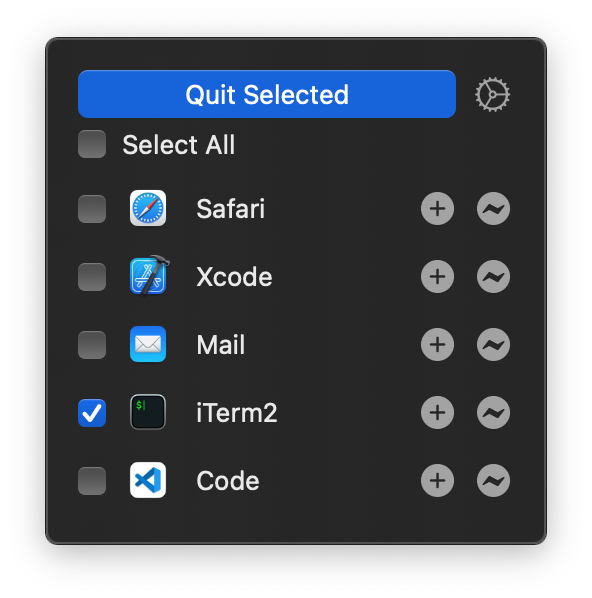
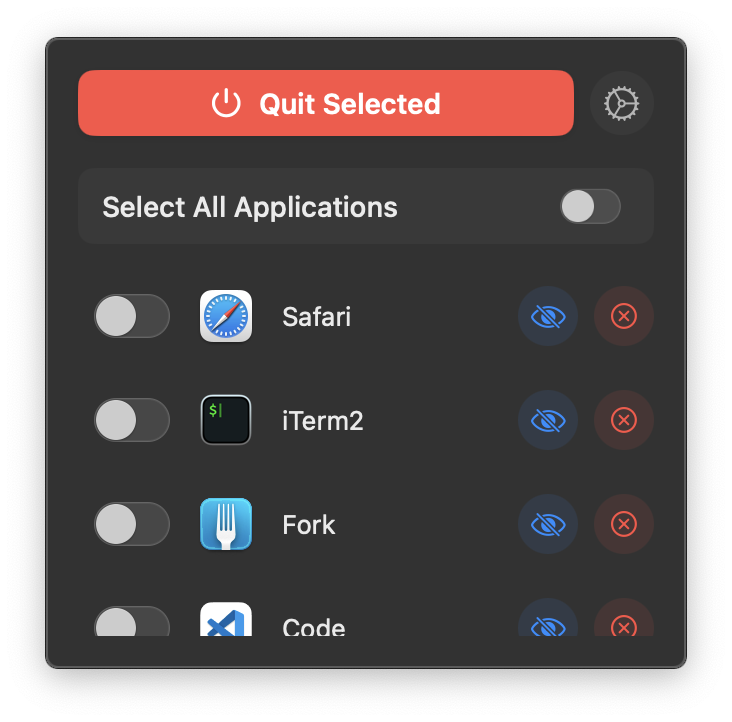
Update readme.md

Changed region(s): [[0.0608, 0.0301, 0.9426, 0.9331], [0.3345, 0.3311, 0.4561, 0.3612]]

diff --git a/README.md b/README.md
@@ -18,7 +18,7 @@ QuitMe is a simple application that allows you to quit any application on macOS.
 - [ ] Default quit option for applications
 - [ ] Support for multiple languages
 - [ ] Quit unused applications automatically after a certain period of time (add user confirmation before quitting this is optional)
-- [ ] Maybe make a separate settings window instead of using a popover
+- [x] Maybe make a separate settings window instead of using a popover
 
 ## Installation
 
@@ -30,9 +30,13 @@ The application is very simple to use. You can select the applications you want 
 
 ![QuitMe](./images/app.png)
 
+![QuitMe](./images/popover.png)
+
 There is also ignore list that you can add applications to. These applications will not be shown in the list of applications to quit and will not be quit when you click `Quit Selected` while they are running.
 
-![QuitMe](./images/ignored.png)
+You can also set a shortcut to quit applications. Click on the `Set Shortcut` button and press the keys you want to use as a shortcut.
+
+![QuitMe](./images/preferences.png)
 
 If you want the application to start at login, you can check the `Launch at Login` checkbox as well.
 
